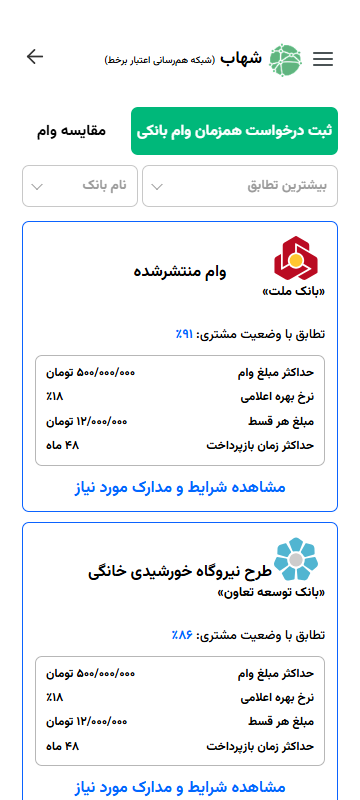
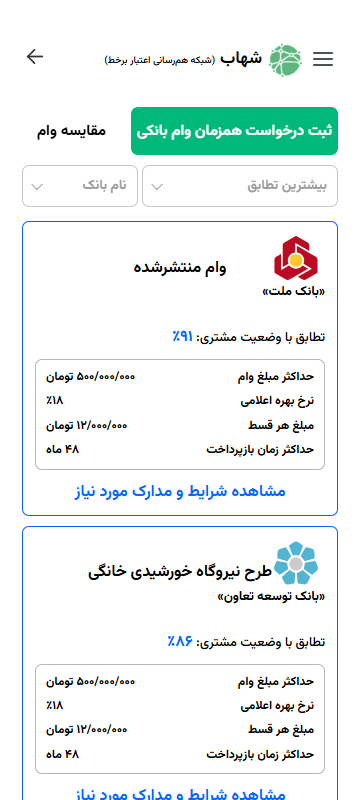
fix(US-09.T06H): tune loan card typography

diff --git a/src/App.css b/src/App.css
@@ -4679,6 +4679,7 @@ button {
   font-weight: 900;
   line-height: 1.4;
   white-space: nowrap;
+  transform: translateY(-20%);
 }
 
 .hp-loan-match {
@@ -4692,6 +4693,10 @@ button {
 
 .hp-loan-match b {
   color: var(--loan-accent, #0067ff);
+}
+
+.hp-loan-match .hp-loan-percent {
+  font-size: 1.2em;
 }
 
 .hp-loan-summary-grid,
@@ -4916,6 +4921,7 @@ button {
 .hp-loan-compare-card .hp-loan-match {
   padding-inline-start: 36px;
   white-space: normal;
+  transform: translateY(20%);
 }
 
 .hp-loan-compare-check {
@@ -5117,6 +5123,7 @@ button {
   width: min(100%, 200px);
   padding-inline: 0;
   box-sizing: border-box;
+  transform: translateY(-20%);
   align-self: center;
   justify-self: center;
   font-size: 16px;

diff --git a/docs/SHAHAB_PROJECT_DEVELOPMENT_CANONICAL_GUIDE.md b/docs/SHAHAB_PROJECT_DEVELOPMENT_CANONICAL_GUIDE.md
@@ -622,10 +622,10 @@ ERD باید از schema واقعی ساخته یا در CI با آن تطبیق
 **هدف و وابستگی:** پس از T06G و پیش از T07، طول نام بانک نباید جای logo یا عنوان وام را در هیچ کارت قابلدسترسی تغییر دهد.
 
 1. هویت بانک component مشترک با box ثابت logo و نام مستقلِ تکخطی و کامل باشد؛ نام بانک هرگز ellipsis، کوتاه یا دوخطی نشود، نام کوتاه یا بلند مختصات logo را تغییر ندهد و مقدار کامل API نمایش داده شود.
-2. logo با فاصلهٔ ثابت از لبهٔ راست و بالای border کارت anchor و لبهٔ راست آن با نام بانک همتراز شود. عنوان وام مستقل و تکخطی در مرکز کارت بماند؛ فضای آن حداقل عنوان چهارکلمهای مرجع را کامل نشان دهد و فقط عنوان طولانیتر با ellipsis محدود شود، بدون حذف یا بازنویسی داده.
-3. این قرارداد در نتایج high/low/variable، انتخاب مقایسه، نتیجهٔ مقایسه و جزئیات یکسان باشد و در mobile/desktop overflow ایجاد نکند. checkbox انتخاب مقایسه در راست کارت anchor شود و فهرست برای نوار ثابت اقدام فضای انتهایی کافی رزرو کند.
+2. logo با فاصلهٔ ثابت از لبهٔ راست و بالای border کارت anchor و لبهٔ راست آن با نام بانک همتراز شود. عنوان وام مستقل و تکخطی در مرکز کارت بماند، بهاندازهٔ ۲۰٪ ارتفاع خودش رو به بالا جابهجا شود؛ فضای آن حداقل عنوان چهارکلمهای مرجع را کامل نشان دهد و فقط عنوان طولانیتر با ellipsis محدود شود، بدون حذف یا بازنویسی داده.
+3. این قرارداد در نتایج high/low/variable، انتخاب مقایسه، نتیجهٔ مقایسه و جزئیات یکسان باشد و در mobile/desktop overflow ایجاد نکند. checkbox انتخاب مقایسه در راست کارت anchor شود، ردیف «تطابق با وضعیت مشتری» در کارت انتخاب مقایسه ۲۰٪ ارتفاع خودش پایینتر قرار گیرد، عدد و نماد درصد تطابق ۲۰٪ بزرگتر از متن ردیف باشد و فهرست برای نوار ثابت اقدام فضای انتهایی کافی رزرو کند.
 4. logo فقط از asset داخلی و تأییدشده خوانده شود؛ داده، API، migration، scoring و D-005 تغییر نکنند.
-5. E2E با نام بانک/وام کوتاه و بلند، کاملبودن نام بانک، نمایش کامل عنوان چهارکلمهای، ellipsis عنوان بلندتر، offset راست/بالای logo و راست checkbox را با `getBoundingClientRect` و تلرانس حداکثر ۱px اثبات کند؛ پنل فیلتر باید بالای کارتها قابل مشاهده/کلیک باشد، کارت دهم بالای نوار ثابت مقایسه کاملاً قابل تعامل بماند و آخرین کارت نتیجهٔ مقایسه حداقل ۲۰px تا دکمهٔ ثابت فاصله داشته باشد.
+5. E2E با نام بانک/وام کوتاه و بلند، کاملبودن نام بانک، نمایش کامل عنوان چهارکلمهای، ellipsis عنوان بلندتر، جابهجایی عمودی ۲۰٪ عنوان/ردیف تطابق، رشد ۱٫۲ برابری درصد تطابق، offset راست/بالای logo و راست checkbox را با geometry واقعی مرورگر و تلرانس حداکثر ۱px اثبات کند؛ پنل فیلتر باید بالای کارتها قابل مشاهده/کلیک باشد، کارت دهم بالای نوار ثابت مقایسه کاملاً قابل تعامل بماند و آخرین کارت نتیجهٔ مقایسه حداقل ۲۰px تا دکمهٔ ثابت فاصله داشته باشد.
 
 **خارج از scope:** دادهٔ وام، موتور توصیهگر، provider خارجی و deploy واقعی تغییر نمیکند. `docs/project-current-state.md` تا پایان US-09/T07 تغییر نمیکند.
 

diff --git a/docs/ui/loan-route-inventory.md b/docs/ui/loan-route-inventory.md
@@ -35,4 +35,4 @@ All three result partitions use the same card structure. Scores are server-owned
 
 ## Bank identity anchor — T06H
 
-Result, low-match, needs-review, comparison-selection, comparison-result and detail cards share one `BankIdentity` component. Its internal-only approved logo occupies a fixed box anchored from the card's right/top border. The lender name is right-aligned with the logo, always remains complete on one line and is never ellipsized; the centered loan title has a one-line 200px budget that keeps the four-word reference title visible and ellipsizes only longer titles while retaining the complete API value in `title`/accessible text. Comparison checkboxes have a fixed right offset independent of either name. Selection and result lists reserve scroll space for their fixed action bars; the final comparison-result card remains at least 20px from the fixed explanation button. The results controls form the stacking context above the card list, with visible overflow and a small local menu layer, so options remain visible and clickable without disabling the cards or using an arbitrary global z-index. Browser geometry checks compare short and long names and require logo/checkbox offsets to remain within 1px in desktop and mobile layouts.
+Result, low-match, needs-review, comparison-selection, comparison-result and detail cards share one `BankIdentity` component. Its internal-only approved logo occupies a fixed box anchored from the card's right/top border. The lender name is right-aligned with the logo, always remains complete on one line and is never ellipsized; the centered loan title has a one-line 200px budget that keeps the four-word reference title visible, ellipsizes only longer titles while retaining the complete API value in `title`/accessible text, and is shifted upward by 20% of its own height. Compatibility percentages are 1.2 times the surrounding match text, while declared-interest percentages are unchanged. On comparison-selection cards only, the customer-match row is shifted downward by 20% of its own height. Comparison checkboxes have a fixed right offset independent of either name. Selection and result lists reserve scroll space for their fixed action bars; the final comparison-result card remains at least 20px from the fixed explanation button. The results controls form the stacking context above the card list, with visible overflow and a small local menu layer, so options remain visible and clickable without disabling the cards or using an arbitrary global z-index. Browser geometry checks compare short and long names and require logo/checkbox offsets to remain within 1px in desktop and mobile layouts.

diff --git a/CHANGELOG.md b/CHANGELOG.md
@@ -7,6 +7,7 @@ The format follows [Keep a Changelog](https://keepachangelog.com/en/1.1.0/), and
 ## [Unreleased]
 
 ### Added
+- US-09.T06H typography follow-up: عنوان وام در همهٔ کارتها ۲۰٪ ارتفاع خودش بالاتر رفت، ردیف «تطابق با وضعیت مشتری» در انتخاب مقایسه ۲۰٪ پایینتر قرار گرفت و عدد/نماد درصد تطابق بدون تغییر نرخ بهرهٔ اعلامی ۲۰٪ بزرگتر شد؛ Playwright نسبتهای واقعی geometry و font را در desktop/mobile کنترل میکند.
 - US-09.T06H follow-up: نام کامل بانک بدون ellipsis و همراستا با logo نمایش داده میشود؛ بودجهٔ عنوان وام، عبارت چهارکلمهای مرجع را کامل نگه میدارد و فقط عنوان بلندتر را کوتاه میکند؛ آخرین کارت نتیجهٔ مقایسه نیز حداقل ۲۰px از دکمهٔ ثابت فاصله دارد. تغییر فقط UI/test/docs است و داده، API، migration و scoring را تغییر نمیدهد.
 - US-09.T06H follow-up: نام بانک و عنوان وام در همهٔ کارتها تکخطی شدند، checkbox مقایسه در راست ثابت شد، برای نوار ثابتِ مقایسه فضای scroll رزرو شد و stacking/overflow فیلترها بدون workaround قطع pointer اصلاح شد؛ تست هندسی و screenshot موبایل/دسکتاپ با ۱۰ وام افزوده شد. داده، API، migration و scoring تغییر نکردند.
 - US-09.T06H: یک component مشترک هویت بانک با box ثابت logo، نام مستقل و عنوان مستقل برای همهٔ کارتهای نتیجه، مقایسه و جزئیات؛ بدون تغییر داده/API/migration یا scoring.
